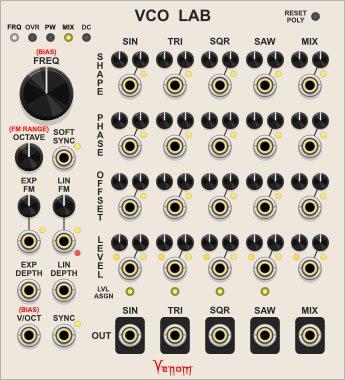
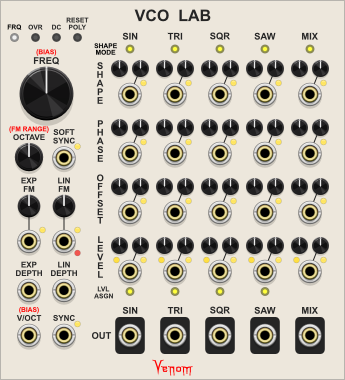
Documentation updates

Changed region(s): [[0.2609, 0.0868, 0.9565, 0.7526], [0.058, 0.0289, 0.2609, 0.1158], [0.8116, 0.0289, 0.9275, 0.0579]]

diff --git a/changelog.md b/changelog.md
@@ -6,6 +6,9 @@
   - Added an extra clipping mode for saturation limiting at +/- 6V
 - Benjolin Oscillator
   - Detune VCO 1 a tiny bit so PWM is not flat at initiation
+- VCO Lab
+  - Rearranged faceplate to be more logical
+  - Added shape mode options to Sin, Tri, and Saw waveforms
 
 ## 2.8.0 (2024-06-26)
 ### New Modules
